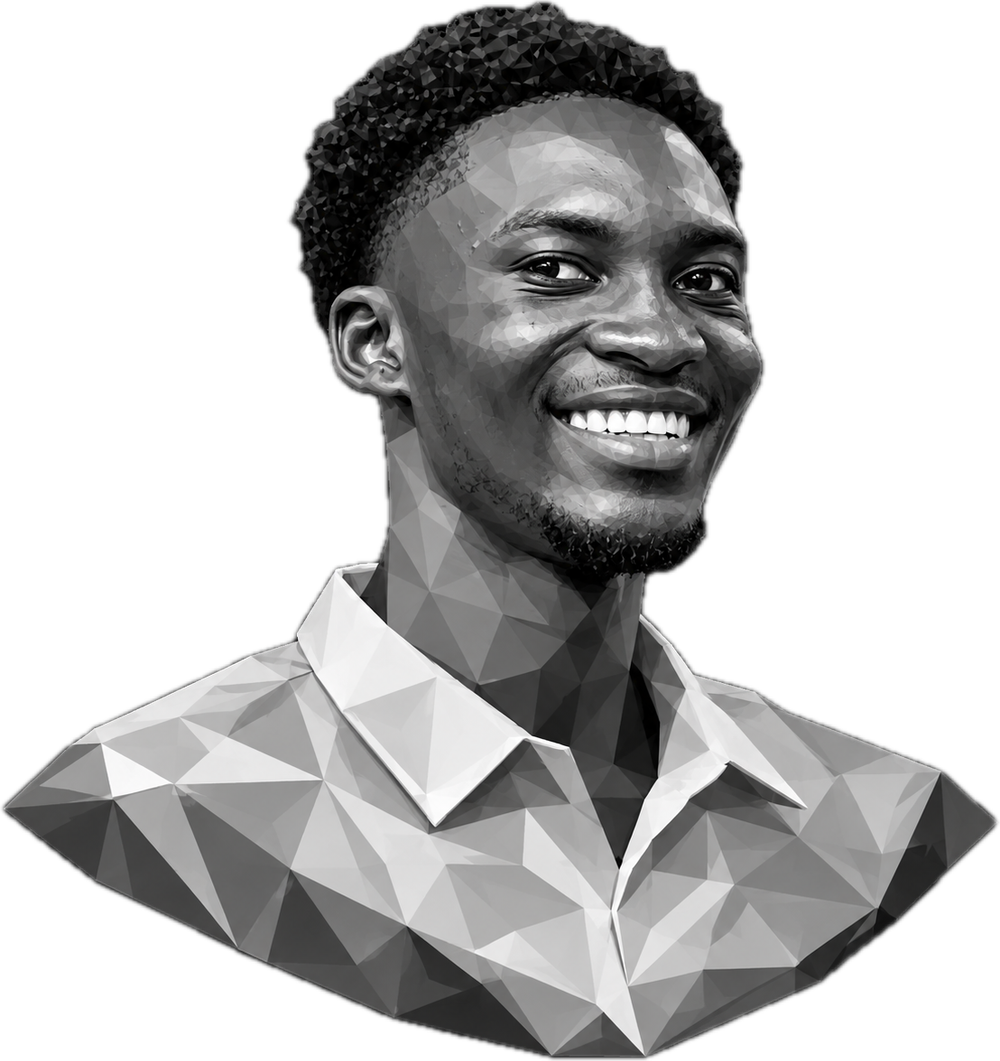
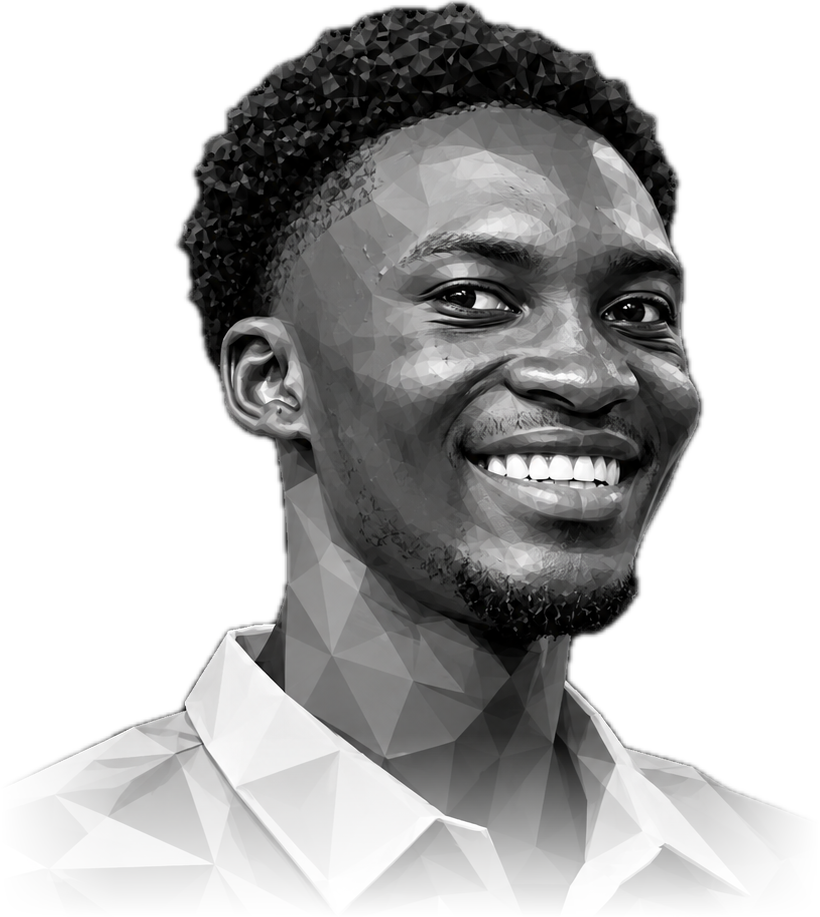
Team: Elton's bust tightened (shoulders pulled in, chest faded) so his face reads as large as the others

diff --git a/src/lib/team.ts b/src/lib/team.ts
@@ -37,7 +37,7 @@ export const CREW: Member[] = [
     motto: "I smell a rebase.",
   },
   {
-    id: "elton", name: "Elton", also: "Nii Marmah", bust: { src: "/team/elton.png", w: 1000, h: 1061 },
+    id: "elton", name: "Elton", also: "Nii Marmah", bust: { src: "/team/elton.png", w: 820, h: 917 },
     usually: "Frontend, product and system design",
     owns: ["Interfaces", "Mobile apps", "Design reviews", "Beagine (co-founder)"],
     stack: ["Expo", "React Native", "Frontend", "Product design"],
